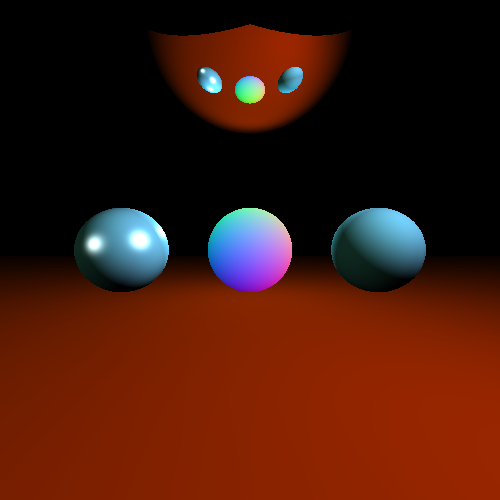
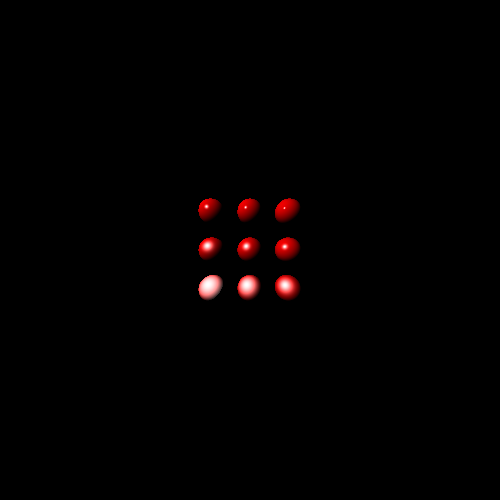
DONEBRONZE

diff --git a/src/shapes/ShapeList.h b/src/shapes/ShapeList.h
@@ -41,13 +41,34 @@ public:
             if (object ->intersect(r, t_min, closest_so_far, temp_rec)) {
                 hit_anything = true;
                 closest_so_far = temp_rec.t;
-                temp_rec.lights = &lights; //this is a copy of the single pointer
+
                 rec = temp_rec;
             }
         }
-        
+        if (hit_anything) {
+          rec.filtered_lights.clear();
+          for (int i = 0; i < lights.size(); ++i) {
+             
+            ray blockr(temp_rec.p + (0.001f * temp_rec.normal), normalize(lights.at(i).position - temp_rec.p));
+            
+            bool in_shadow = false;
+            for (const auto &obj : objects) {
+                hit_record shadow_rec;
+              in_shadow = obj->intersect(blockr, 0.001, (lights.at(i).position - temp_rec.p).length(), shadow_rec); //whats the point of shadow_rec?
+
+              if (in_shadow == true) {
+                  break;
+              }
+            }
+            if (!in_shadow) {
+                rec.filtered_lights.push_back(lights.at(i));
+            }
+          }
+          rec.lights = &rec.filtered_lights;
+        }
+
         return hit_anything;
-    }
+    }//hit rec in the future have access to the shape list?
     bool intersect(const ray& r, interval ray_t, hit_record& rec) const override {
         return intersect(r, ray_t.min, ray_t.max, rec);
     }

diff --git a/src/SceneLoader/SceneLoader.h b/src/SceneLoader/SceneLoader.h
@@ -8,6 +8,7 @@
 #include "../shaders/BlinnPhong.h"
 #include "../shaders/MirrorShader.h"
 #include "../shaders/NormalShader.h"
+#include "../shaders/SinShader.h"
 
 #include <unordered_map>
 #include <iostream>
@@ -75,6 +76,9 @@ public:
         }
         else if (desc.type == "Mirror") {
             shader = std::make_shared<MirrorShader>();
+        }
+        else if (desc.type == "SinShader" || desc.type == "sin_shader" || desc.type == "Sin_Shader" || desc.type == "sinshader" || desc.type == "Sin" || desc.type == "sin") {
+            shader = std::make_shared<SinShader>();
         }
         else {
             std::cout << "  Unknown shader type '" << desc.type

diff --git a/src/SceneLoader/SceneParser_JSON.cpp b/src/SceneLoader/SceneParser_JSON.cpp
@@ -235,6 +235,8 @@ void SceneParser_JSON::parseShader(const json &shader) {
 
   } else if (shaderDesc.type == "CoolToWarm") {
     shaderDesc.diffuse = extractShaderProperty(shader, "diffuse");
+  } else if (shaderDesc.type == "SinShader" || shaderDesc.type == "sin_shader" || shaderDesc.type == "Sin_Shader" || shaderDesc.type == "sinshader" || shaderDesc.type == "Sin" || shaderDesc.type == "sin") {
+    // SinShader
   }
 
   loader->addShader(shaderDesc);

diff --git a/src/shaders/SinShader.h b/src/shaders/SinShader.h
@@ -6,8 +6,10 @@ class SinShader : public Shader {
     public:
       color shape_render(const hit_record& rec) const override
       {
-        float sin_val = (std::sin(rec.p.x()) + 1.0f) * 0.5f;
+        float sin_val = (std::sin(rec.p.x() * 10) + 1.0f) * 0.5f;
         
-        return vec3(sin_val, sin_val, sin_val);
+        float sin_val_y = (std::sin(rec.p.y() * 5) + 1.0f) * 0.5f;
+
+        return vec3(sin_val, sin_val, sin_val_y);
       }
 };

diff --git a/src/shaders/LambertianShader.h b/src/shaders/LambertianShader.h
@@ -22,8 +22,9 @@ class LambertianShader : public Shader {
             if (rec.lights) {
               for (const auto &light : *rec.lights) {
                 
+
                 vec3 light_dir = normalize(light.position - rec.p);
-                
+
                 float dp = dot(light_dir, normal);
                 if (dp > 0.0f) {
                     vec3 col = light.intensity * dp * albedo * light.color;

diff --git a/src/shapes/hit_record.h b/src/shapes/hit_record.h
@@ -23,6 +23,8 @@ struct hit_record {
 
     // Pointer to shader of the shape we hit
     std::shared_ptr<Shader> shader{nullptr};//why not just have a reference to the shape 
+
+    std::vector<Light> filtered_lights;
     const std::vector<Light>* lights = nullptr;
 
     //A: pasing the vec3& without the & counts as a copy not a value

diff --git a/README.md b/README.md
@@ -1,9 +1,9 @@
 
 #LOADING STUFF
--w width
--h height
--o output file name
-
+-w (int) width
+-h (int) height
+-o (string) output file name
+-aa (int) anti aliasing
 ./buildVCPkg/examples/JsonLoaderScene examples/scenes/scenes_A/threeTriangles.json -w 300 -h 200 -o output.png
 
 
